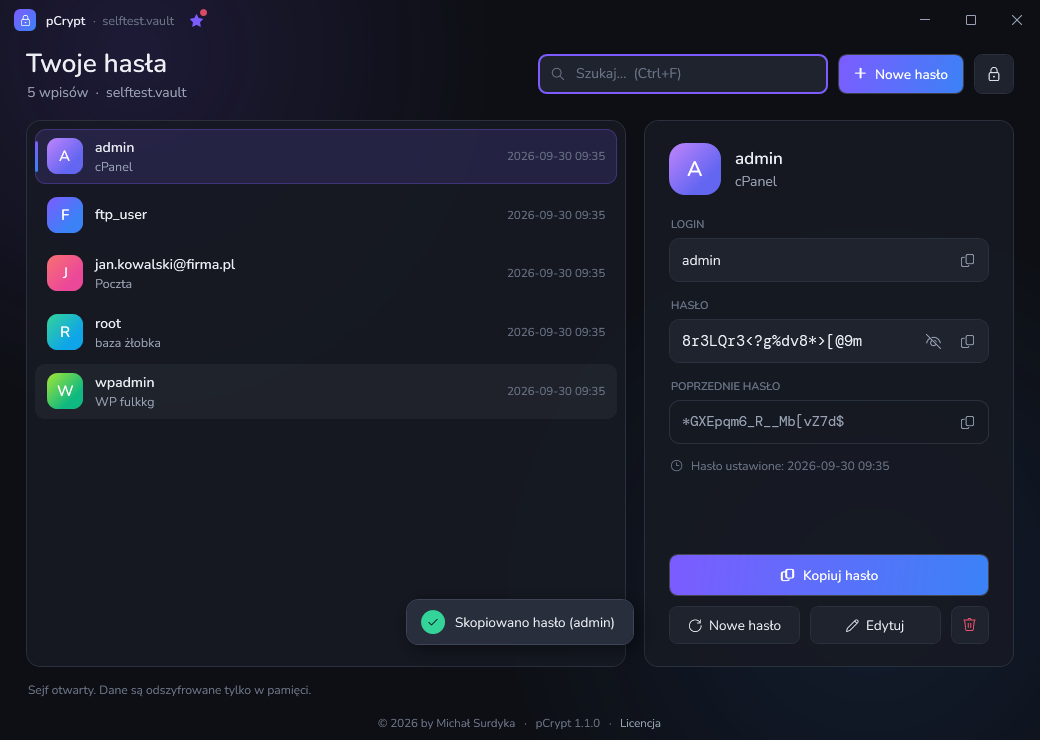
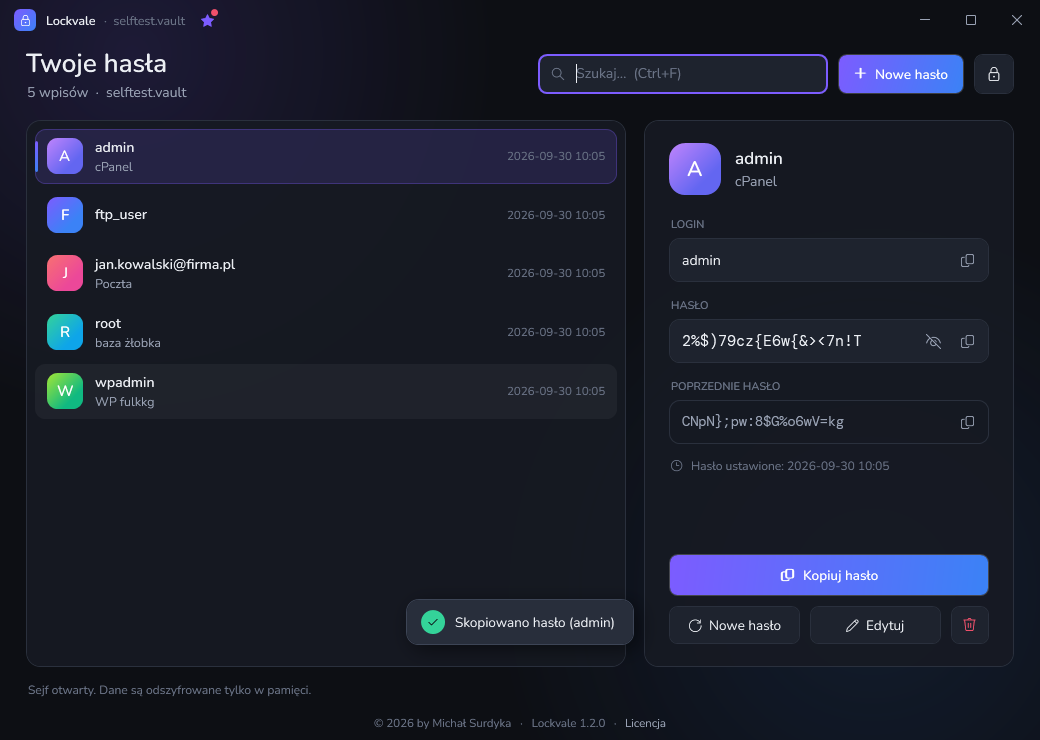
Lockvale 1.2.0: README i licencja

diff --git a/README.md b/README.md
@@ -1,14 +1,17 @@
-# pCrypt
+# Lockvale
 
-**pCrypt** to przenośny, szyfrowany sejf haseł dla Windows — jeden plik `pCrypt.exe`, bez instalacji.
+**Lockvale** to przenośny, szyfrowany sejf haseł dla Windows — jeden plik `Lockvale.exe`, bez instalacji.
 Można go nosić na pendrivie razem z plikiem sejfu.
 
-![pCrypt](screenshots/3-szczegoly.png)
+> Wcześniej program nazywał się **pCrypt**. Wersja pCrypt 1.1.0 aktualizuje się do Lockvale automatycznie,
+> a pliki `pcrypt.vault` i `pcrypt.ini` są odczytywane bez zmian.
+
+![Lockvale](screenshots/3-szczegoly.png)
 
 ## Pobierz
 
-**[⬇ Pobierz najnowszą wersję pCrypt.exe](https://github.com/Crisples/pcrypt-releases/releases/latest/download/pCrypt.exe)**
-· [wszystkie wydania](https://github.com/Crisples/pcrypt-releases/releases)
+**[⬇ Pobierz najnowszą wersję Lockvale.exe](https://github.com/Crisples/lockvale-releases/releases/latest/download/Lockvale.exe)**
+· [wszystkie wydania](https://github.com/Crisples/lockvale-releases/releases)
 
 Wymagania: Windows 10 lub 11 (.NET Framework 4.8 jest wbudowany w system).
 
@@ -23,35 +26,35 @@ Wymagania: Windows 10 lub 11 (.NET Framework 4.8 jest wbudowany w system).
 - Generator haseł, wyszukiwarka, historia poprzedniego hasła dla każdego wpisu.
 - Kopiowanie do schowka z automatycznym czyszczeniem po 30 s (bez historii schowka Windows).
 - Automatyczna blokada po 5 minutach bezczynności i przy zablokowaniu Windows.
-- Automatyczne aktualizacje z podpisem cyfrowym — pCrypt instaluje tylko pliki podpisane przez autora.
+- Automatyczne aktualizacje z podpisem cyfrowym — Lockvale instaluje tylko pliki podpisane przez autora.
 
 ## Pierwsze kroki
 
-1. Wrzuć `pCrypt.exe` do folderu, w którym ma leżeć sejf (np. na pendrive).
+1. Wrzuć `Lockvale.exe` do folderu, w którym ma leżeć sejf (np. na pendrive).
 2. Uruchom i ustaw **hasło główne** (min. 12 znaków). **Nie da się go odzyskać** — zapamiętaj je.
-3. Rób kopie zapasowe pliku `pcrypt.vault` (poprzednia wersja po każdym zapisie trafia też do `pcrypt.vault.bak`).
+3. Rób kopie zapasowe pliku `lockvale.vault` (poprzednia wersja po każdym zapisie trafia też do `lockvale.vault.bak`).
 
-Ustawienia są w pliku `pcrypt.ini` obok programu. `aktualizacje=0` wyłącza sprawdzanie nowych wersji.
+Ustawienia są w pliku `lockvale.ini` obok programu. `aktualizacje=0` wyłącza sprawdzanie nowych wersji.
 
 ## Aktualizacje i ich weryfikacja
 
-Przy starcie pCrypt sprawdza najnowsze wydanie w tym repozytorium i pyta o instalację. Każde wydanie zawiera
-`pCrypt.update` — manifest z numerem wersji i skrótem SHA-256 pliku, podpisany kluczem ECDSA P-256 autora.
+Przy starcie Lockvale sprawdza najnowsze wydanie w tym repozytorium i pyta o instalację. Każde wydanie zawiera
+`Lockvale.update` — manifest z numerem wersji i skrótem SHA-256 pliku, podpisany kluczem ECDSA P-256 autora.
 Aplikacja odrzuci plik z błędnym podpisem, innym skrótem albo starszą wersją.
 
-Skrót pobranego pliku sprawdzisz ręcznie w PowerShellu i porównasz z linią `sha256=` w `pCrypt.update`:
+Skrót pobranego pliku sprawdzisz ręcznie w PowerShellu i porównasz z linią `sha256=` w `Lockvale.update`:
 
 ```powershell
-(Get-FileHash .\pCrypt.exe -Algorithm SHA256).Hash.ToLower()
+(Get-FileHash .\Lockvale.exe -Algorithm SHA256).Hash.ToLower()
 ```
 
 ## Licencja
 
-pCrypt jest darmowy (freeware) do użytku prywatnego i firmowego. Szczegóły: [LICENSE.txt](LICENSE.txt).
+Lockvale jest darmowy (freeware) do użytku prywatnego i firmowego. Szczegóły: [LICENSE.txt](LICENSE.txt).
 Copyright © 2026 by Michał Surdyka.
 
 Program zawiera czcionki Nunito i DM Mono na licencji SIL Open Font License 1.1.
 
 ## Zgłoszenia
 
-Błędy i pomysły: [Issues](https://github.com/Crisples/pcrypt-releases/issues).
+Błędy i pomysły: [Issues](https://github.com/Crisples/lockvale-releases/issues).
